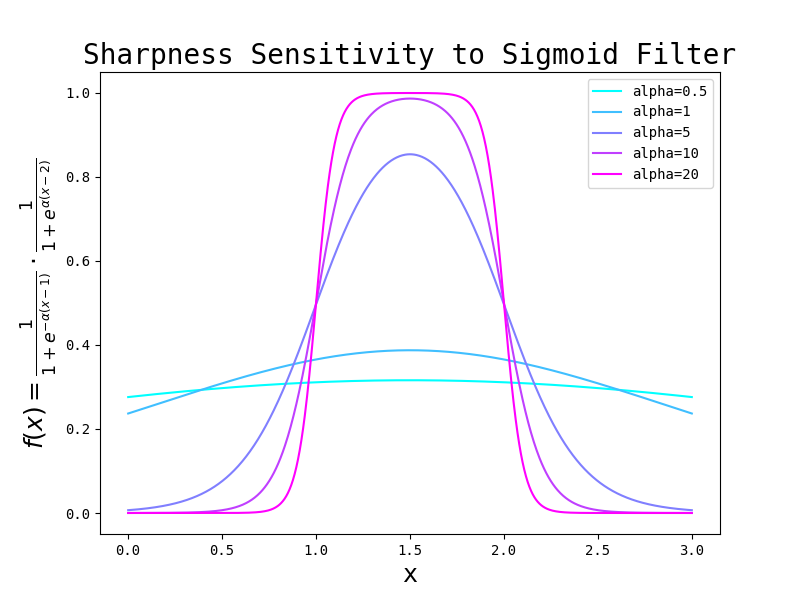
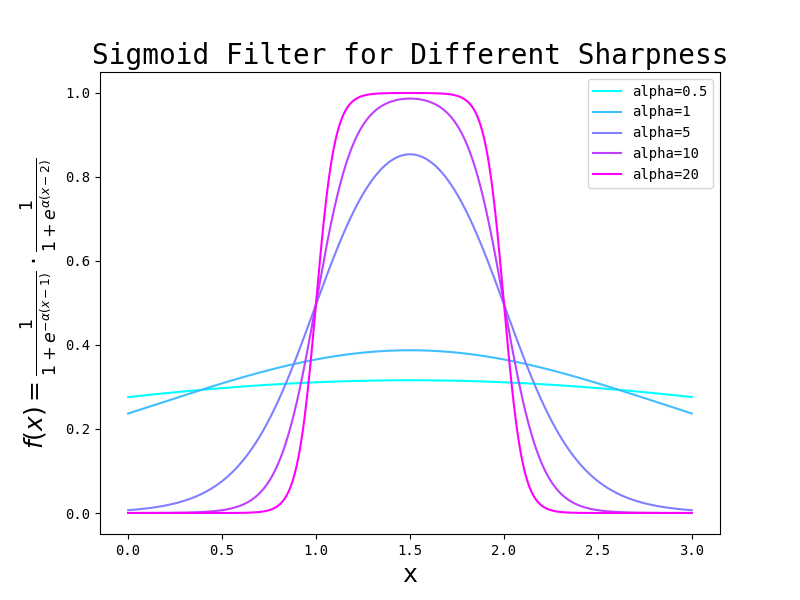
title

Changed region(s): [[0.0938, 0.06, 0.9062, 0.12]]

diff --git a/assets/sharpness.py b/assets/sharpness.py
@@ -24,7 +24,7 @@ for i, alpha in enumerate(alphas):
 # Add labels, title, and legend
 plt.xlabel('x', fontsize=18)
 plt.ylabel(r'$f(x) = \frac{1}{1 + e^{-\alpha(x - 1)}} \cdot \frac{1}{1 + e^{\alpha(x - 2)}}$', fontsize=18)
-plt.title('Sharpness Sensitivity to Sigmoid Filter', fontsize=20)
+plt.title('Sigmoid Filter for Different Sharpness', fontsize=20)
 plt.legend()
 
 # Show the plot
